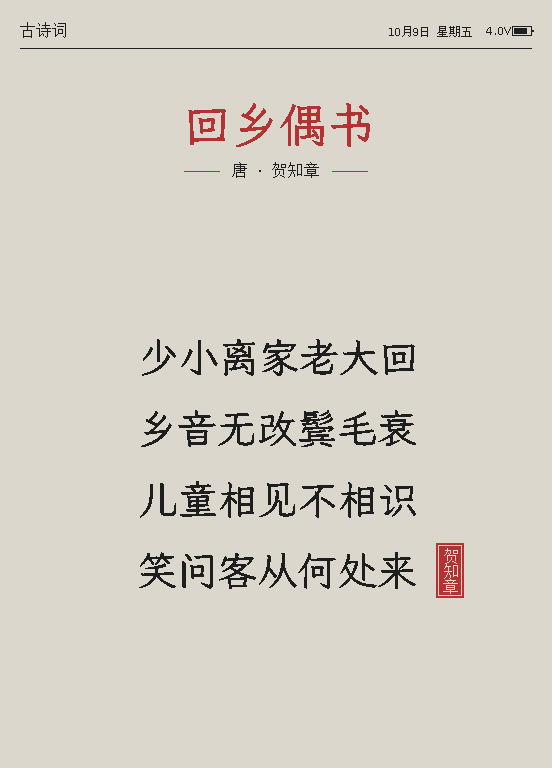
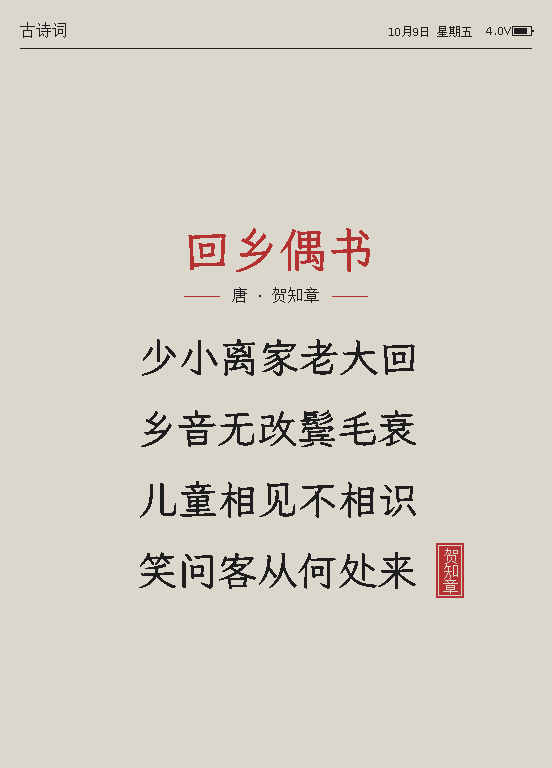
Poetry upright: the whole block centred under the header bar

Changed region(s): [[0.3388, 0.2812, 0.6775, 0.4062], [0.3388, 0.125, 0.6775, 0.25]]

diff --git a/server/src/screens/poetry.ts b/server/src/screens/poetry.ts
@@ -134,9 +134,11 @@ export function renderPoetry(panel: Panel, ctx: ScreenContext) {
   const flat = H > W ? plan(poem, large, H - 2 * m - 2 * pad, W - f.top - 2 * pad) : undefined;
   const L = plan(poem, large, maxW, maxH, flat ? fh(flat.body) : Infinity);
   const cx = Math.round(W / 2);
-  // upright: the title at the top, the poem centred in the room under it
+  // upright: the whole block (title, author, poem) centred under the header bar
   const tall = H > W;
-  let y = tall ? f.top + pad + (large ? 24 : 12) : f.top + pad + Math.max(0, Math.round((maxH - L.h) / 3));
+  const visibleH = L.h - (L.lineH - fh(L.body));  // (no leading under the last line)
+  let y = tall ? f.top + Math.max(pad, Math.round((H - f.top - visibleH) / 2))
+    : f.top + pad + Math.max(0, Math.round((maxH - L.h) / 3));
 
   // title (red) and "朝代 · 作者" with short red rules either side
   y += L.title.ascent;
@@ -152,10 +154,6 @@ export function renderPoetry(panel: Panel, ctx: ScreenContext) {
 
   // the text: centred lines per column, or a left-aligned block of running text
   const rows = Math.ceil(L.lines.length / L.cols);
-  if (tall) {
-    const textH = rows * L.lineH - (L.lineH - fh(L.body));
-    y += Math.max(0, Math.round((H - pad - (large ? 24 : 12) - y - textH) / 2));
-  }
   const blockW = L.cols * L.colW + (L.cols - 1) * L.colGap;
   const bx = Math.round(cx - blockW / 2);
   L.lines.forEach((line, i) => {
